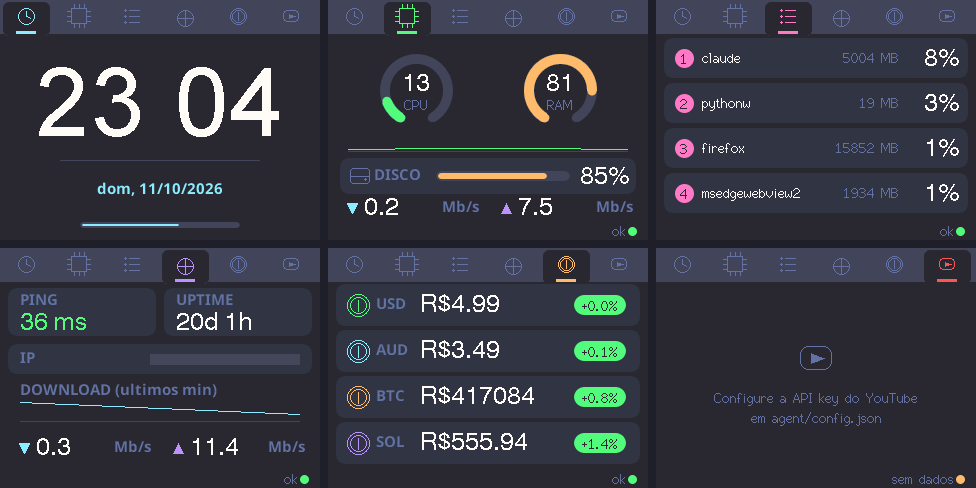
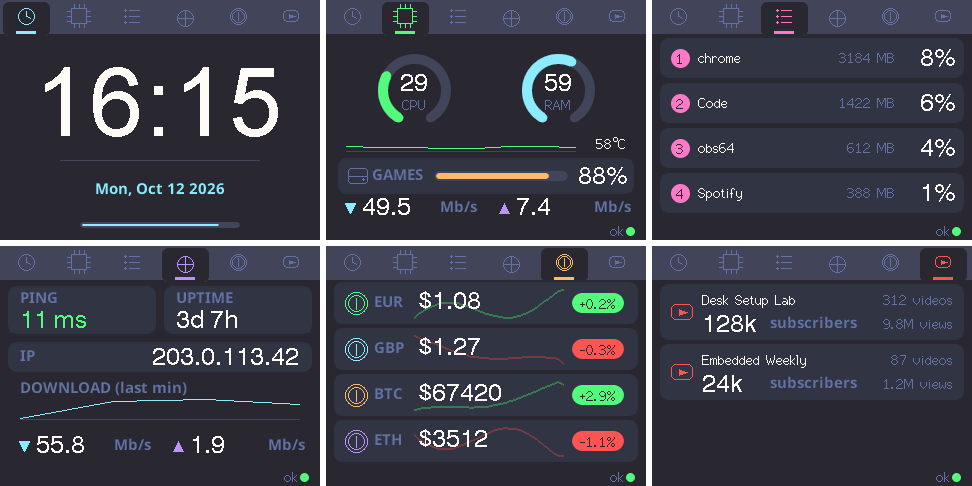
Atualiza ControlId.Net, CYD PC Dashboard e Job Tracker
- ControlId.Net 0.2.0-alpha.1: 85 endpoints cobertos, configurações
  tipadas, 189 testes e .NET 10
- CYD PC Dashboard v1.11: aba Serviços, interface web com OTA,
  notificações, alertas, temas, testes do agente e capa nova
- Job Tracker: raio-x mensal do mercado

diff --git a/src/content/projects/pt/cyd-pc-dashboard.md b/src/content/projects/pt/cyd-pc-dashboard.md
@@ -1,30 +1,38 @@
 ---
 title: CYD PC Dashboard
-summary: Painel touch de mesa no ESP32 "Cheap Yellow Display" com dados do PC, processos, rede, cotações e YouTube, alimentado por um agente Python na rede local.
-highlight: firmware ESP32 · instalador web · release automatizada
-tags: [ESP32, C++, PlatformIO, TFT_eSPI, Python, GitHub Actions]
+summary: Painel touch de mesa no ESP32 "Cheap Yellow Display" com dados do PC, processos, rede, cotações, serviços e notificações, alimentado por um agente na rede local.
+highlight: v1.11 · 16 releases · atualização OTA · instalador web
+tags: [ESP32, C++, PlatformIO, TFT_eSPI, Python, pytest, GitHub Actions]
 cover: ../../../assets/projects/cyd-pc-dashboard.png
 repo: https://github.com/DaviLuisSantos/cyd-pc-dashboard
 demo: https://daviluissantos.github.io/cyd-pc-dashboard/
 order: 5
 ---
 
-Um painel de 2,8" (uma placa de uns US$ 15) que fica ao lado do monitor e mostra, de relance, o que normalmente exigiria trocar de janela: relógio, CPU e RAM, processos, rede, cotações e estatísticas do YouTube. As capturas acima foram lidas direto do framebuffer do display.
+Um painel de 2,8" (uma placa de uns US$ 15) que fica ao lado do monitor e mostra, de relance, o que normalmente exigiria trocar de janela. As capturas acima foram lidas direto do framebuffer do display.
+
+## O que ele mostra
+
+- **Sete abas:** relógio, PC (CPU, RAM, temperatura, discos e rede), processos, rede, cotações (moedas, cripto, ações, ETFs e índices, com gráfico de 24h), YouTube e serviços (se hosts e sites escolhidos estão no ar, com a latência).
+- **Notificações do PC:** um comando ou um `curl` faz aparecer um card no painel, útil para avisar quando um build, um teste ou um download termina.
+- **Alertas:** limites de CPU, RAM e disco colorem os indicadores e fazem a aba do PC piscar de qualquer outra aba.
+- **Usa o que a placa tem:** o LED RGB pisca em alertas e notificações, e o sensor de luz ajusta o brilho conforme o ambiente. À noite, a tela escurece ou apaga.
 
 ## Firmware
 
-- **Seis abas plugáveis:** cada tela implementa uma interface com desenho estático, atualização incremental e toque. A navegação é por toque, com rotação automática opcional.
-- **Sem flicker:** cada valor dinâmico é desenhado num sprite fora da tela e enviado ao display numa única transação. O sprite é liberado logo depois para não disputar memória com o WiFi.
-- **Configuração sem código:** no primeiro boot o painel abre um portal WiFi onde se escolhe a rede, o IP do agente, o fuso e o idioma. Tudo fica salvo na flash da placa.
-- Tema Dracula com formas e fontes suavizadas, ícones 100% vetoriais e interface em português e inglês, trocável em tempo de execução.
+- **Interface web no próprio painel:** captura da tela ao vivo (dá para clicar e "tocar" nela), todas as configurações editáveis na hora e **atualização de firmware pelo WiFi (OTA)** com rollback automático.
+- **Configuração sem código:** o instalador web grava o firmware pelo navegador e já configura o WiFi. Também há um portal WiFi e descoberta automática do agente na rede.
+- **Sem flicker:** cada valor dinâmico é desenhado num sprite fora da tela e enviado ao display numa única transação.
+- Seis temas de cor (Dracula, Nord, Gruvbox, Catppuccin e outros), ícones 100% vetoriais e interface em português e inglês.
 
 ## Problemas que deram trabalho
 
-- **Leituras corrompidas no SPI:** display e touch usavam o mesmo periférico SPI do ESP32. As escritas funcionavam, mas as leituras do display voltavam erradas. A solução foi separar os dois em periféricos diferentes.
+- **Leituras corrompidas no SPI:** display e touch usavam o mesmo periférico SPI do ESP32. As escritas funcionavam, mas as leituras do display voltavam zeradas. A solução foi separar os dois em periféricos diferentes.
 - **Bits deslocados na leitura:** ler o framebuffer na mesma frequência da escrita deslocava cada byte em um bit. As leituras passaram a rodar a 6 MHz, e as escritas continuam a 55 MHz.
 
-## Agente no PC e distribuição
+## Agente e distribuição
 
 - **Agente em Python** (só psutil e biblioteca padrão): cada métrica é coletada por uma thread própria e servida a partir de cache. O ESP32 só faz HTTP simples na rede local, sem chaves de API nem TLS no microcontrolador.
-- **Instalador web:** o firmware é gravado direto pelo navegador, sem instalar nenhuma ferramenta.
+- O agente roda como executável no Windows, sem precisar de Python, e tem inicialização automática no Windows, no Linux e no macOS, além de token de autenticação opcional.
+- **68 testes** com pytest rodando no CI em Windows, Linux e macOS.
 - **Releases automáticas:** o GitHub Actions compila a cada tag, gera um binário único e publica a release e o instalador.

diff --git a/src/content/projects/en/cyd-pc-dashboard.md b/src/content/projects/en/cyd-pc-dashboard.md
@@ -1,30 +1,38 @@
 ---
 title: CYD PC Dashboard
-summary: Touch desk dashboard on the ESP32 "Cheap Yellow Display" with PC stats, processes, network, market quotes and YouTube stats, fed by a Python agent on the local network.
-highlight: ESP32 firmware · web installer · automated releases
-tags: [ESP32, C++, PlatformIO, TFT_eSPI, Python, GitHub Actions]
+summary: Touch desk dashboard on the ESP32 "Cheap Yellow Display" with PC stats, processes, network, market quotes, services and notifications, fed by an agent on the local network.
+highlight: v1.11 · 16 releases · OTA updates · web installer
+tags: [ESP32, C++, PlatformIO, TFT_eSPI, Python, pytest, GitHub Actions]
 cover: ../../../assets/projects/cyd-pc-dashboard.png
 repo: https://github.com/DaviLuisSantos/cyd-pc-dashboard
 demo: https://daviluissantos.github.io/cyd-pc-dashboard/
 order: 5
 ---
 
-A 2.8" panel (a board that costs about US$15) that sits next to the monitor and shows, at a glance, what would otherwise mean switching windows: clock, CPU and RAM, processes, network, market quotes and YouTube stats. The captures above were read straight from the display's framebuffer.
+A 2.8" panel (a board that costs about US$15) that sits next to the monitor and shows, at a glance, what would otherwise mean switching windows. The captures above were read straight from the display's framebuffer.
+
+## What it shows
+
+- **Seven tabs:** clock, PC (CPU, RAM, temperature, disks and network), processes, network, quotes (currencies, crypto, stocks, ETFs and indexes, with a 24h chart), YouTube and services (whether chosen hosts and sites are up, with latency).
+- **Notifications from the PC:** a command or a `curl` pops a card on the panel, handy for knowing when a build, a test run or a download finishes.
+- **Alerts:** CPU, RAM and disk thresholds color the gauges and make the PC tab blink from any other tab.
+- **Uses what the board has:** the RGB LED blinks on alerts and notifications, and the light sensor drives the brightness from the room light. At night the screen dims or turns off.
 
 ## Firmware
 
-- **Six pluggable tabs:** each screen implements an interface for static drawing, incremental updates and touch. Navigation is by touch, with optional auto-rotation.
-- **Flicker-free:** each dynamic value is drawn into an off-screen sprite and pushed to the display in a single transaction. The sprite is freed right after so it doesn't compete with WiFi for memory.
-- **Zero-code setup:** on first boot the panel opens a WiFi portal to pick the network, agent IP, timezone and language. Everything is saved to the board's flash.
-- Dracula theme with anti-aliased shapes and fonts, 100% vector icons, and a UI in English and Portuguese, switchable at runtime.
+- **Web interface on the panel itself:** a live screenshot you can click to "tap", every setting editable on the spot, and **firmware updates over WiFi (OTA)** with automatic rollback.
+- **Zero-code setup:** the web installer flashes the firmware from the browser and sets up WiFi right away. There is also a WiFi portal and automatic discovery of the agent on the network.
+- **Flicker-free:** each dynamic value is drawn into an off-screen sprite and pushed to the display in a single transaction.
+- Six color themes (Dracula, Nord, Gruvbox, Catppuccin and more), 100% vector icons and a UI in English and Portuguese.
 
 ## Problems that took real work
 
-- **Corrupted SPI reads:** the display and the touch controller shared the same ESP32 SPI peripheral. Writes worked, but display reads came back wrong. The fix was moving them to separate peripherals.
+- **Corrupted SPI reads:** the display and the touch controller shared the same ESP32 SPI peripheral. Writes worked, but display reads came back as zeros. The fix was moving them to separate peripherals.
 - **Shifted bits on readback:** reading the framebuffer at the write clock shifted every byte by one bit. Reads now run at 6 MHz, while writes stay at 55 MHz.
 
-## PC agent and distribution
+## Agent and distribution
 
 - **Python agent** (psutil and the standard library only): each metric is collected by its own thread and served from cache. The ESP32 only speaks plain HTTP on the LAN, with no API keys or TLS on the microcontroller.
-- **Web installer:** the firmware is flashed straight from the browser, with no toolchain to install.
+- The agent runs as a Windows executable with no Python required, starts automatically on Windows, Linux and macOS, and supports an optional authentication token.
+- **68 tests** with pytest running in CI on Windows, Linux and macOS.
 - **Automated releases:** GitHub Actions builds on every tag, produces a single merged binary and publishes the release and the installer.

diff --git a/src/content/projects/pt/controlid-net.md b/src/content/projects/pt/controlid-net.md
@@ -1,8 +1,8 @@
 ---
 title: ControlId.Net
 summary: Biblioteca .NET open source (não oficial) para integrar equipamentos de controle de acesso e relógios de ponto REP da Control iD, publicada no NuGet.
-highlight: publicado no NuGet · 144 testes
-tags: [.NET 8, .NET Standard 2.0, ASP.NET Core, xUnit, GitHub Actions]
+highlight: publicado no NuGet · 85 endpoints cobertos · 189 testes
+tags: [.NET 8, .NET 10, .NET Standard 2.0, ASP.NET Core, xUnit, GitHub Actions]
 repo: https://github.com/DaviLuisSantos/ControlId.Net
 links:
   - label: NuGet
@@ -12,10 +12,12 @@ order: 2
 
 Cliente .NET para a linha de acesso da Control iD (iDAccess, iDFlex, iDFace, iDBox, iDUHF) e para os relógios de ponto REP iDClass. Gera para `net8.0` e `netstandard2.0`, então também funciona em projetos .NET Framework 4.6.1+.
 
-São três pacotes: `ControlId.Net`, `ControlId.Net.DependencyInjection` e `ControlId.Net.AspNetCore`.
+São três pacotes: `ControlId.Net`, `ControlId.Net.DependencyInjection` e `ControlId.Net.AspNetCore`. A versão atual é a 0.2.0-alpha.1.
 
 ## Destaques
 
+- **Cobertura completa da API documentada:** os 85 endpoints públicos da linha de acesso têm método na biblioteca, e um teste chama cada um e confere a rota e o método HTTP.
+- **Tudo tipado:** CRUD genérico para os objetos da API, 34 seções de configuração (cerca de 245 parâmetros), cadastro facial, mídia do iDFace (vídeo de propaganda, mensagens sonoras, interfonia SIP, RTSP), rede, VPN e licenças.
 - **Sessão gerenciada:** login sob demanda, sessão em cache e um novo login automático ao receber 401. Um `SemaphoreSlim` impede logins simultâneos.
 - **Parser de AFD:** lê os arquivos das Portarias 671/2021 e 1510/2009 em streaming. Detecta o encoding, valida o CRC-16 e trata linhas corrompidas sem interromper a leitura.
 - **Modo Push** para equipamentos atrás de NAT: fila de comandos por equipamento, envio em lote e cancelamento.
@@ -24,7 +26,7 @@ São três pacotes: `ControlId.Net`, `ControlId.Net.DependencyInjection` e `Cont
 
 ## Qualidade
 
-- 144 testes, rodando em .NET 8 (Linux) e em .NET Framework 4.8 (Windows).
+- 189 testes, rodando em .NET 8 e .NET 10 (Linux) e em .NET Framework 4.8 (Windows).
 - Publicação no NuGet via Trusted Publishing (OIDC): não há chave guardada no repositório, e o pacote só sai se todos os testes passarem.
 
 > Projeto independente, sem vínculo com a Control iD. Os nomes citados são marcas da Control iD.

diff --git a/src/content/projects/en/controlid-net.md b/src/content/projects/en/controlid-net.md
@@ -1,8 +1,8 @@
 ---
 title: ControlId.Net
 summary: Open source (unofficial) .NET library for integrating Control iD access-control devices and REP time clocks, published on NuGet.
-highlight: published on NuGet · 144 tests
-tags: [.NET 8, .NET Standard 2.0, ASP.NET Core, xUnit, GitHub Actions]
+highlight: published on NuGet · 85 endpoints covered · 189 tests
+tags: [.NET 8, .NET 10, .NET Standard 2.0, ASP.NET Core, xUnit, GitHub Actions]
 repo: https://github.com/DaviLuisSantos/ControlId.Net
 links:
   - label: NuGet
@@ -12,10 +12,12 @@ order: 2
 
 A .NET client for Control iD access-control devices (iDAccess, iDFlex, iDFace, iDBox, iDUHF) and iDClass REP time clocks. Targets `net8.0` and `netstandard2.0`, so it also works in .NET Framework 4.6.1+ projects.
 
-Three packages: `ControlId.Net`, `ControlId.Net.DependencyInjection` and `ControlId.Net.AspNetCore`.
+Three packages: `ControlId.Net`, `ControlId.Net.DependencyInjection` and `ControlId.Net.AspNetCore`. The current version is 0.2.0-alpha.1.
 
 ## Highlights
 
+- **Full coverage of the documented API:** all 85 public endpoints of the access line have a method in the library, and a test calls each one and checks the route and HTTP method.
+- **Fully typed:** generic CRUD for the API objects, 34 settings sections (about 245 parameters), facial enrollment, iDFace media (advertising video, audio messages, SIP intercom, RTSP), networking, VPN and licenses.
 - **Managed session:** on-demand login, cached session and an automatic re-login on 401. A `SemaphoreSlim` prevents concurrent logins.
 - **AFD parser:** streams Brazilian time-clock files (Portaria 671/2021 and 1510/2009). Detects encoding, validates CRC-16 and handles corrupted lines without aborting the read.
 - **Push mode** for devices behind NAT: per-device command queue, batched delivery and cancellation.
@@ -24,7 +26,7 @@ Three packages: `ControlId.Net`, `ControlId.Net.DependencyInjection` and `Contro
 
 ## Quality
 
-- 144 tests, running on .NET 8 (Linux) and .NET Framework 4.8 (Windows).
+- 189 tests, running on .NET 8 and .NET 10 (Linux) and .NET Framework 4.8 (Windows).
 - Published to NuGet with Trusted Publishing (OIDC): no key is stored in the repository, and a package only ships if every test passes.
 
 > Independent project, not affiliated with Control iD. The names mentioned are Control iD trademarks.

diff --git a/src/content/projects/pt/job-tracker.md b/src/content/projects/pt/job-tracker.md
@@ -21,6 +21,11 @@ Ferramenta pessoal para acompanhar o mercado de vagas na Austrália sem precisar
 - **Entende negação:** ignora um termo quando ele vem logo depois de "no", "not", "without" etc., e usa regex que funcionam com termos como C# e .NET.
 - **Revisão em duas etapas:** vagas com pontuação alta são reavaliadas com a descrição completa, e uma etapa opcional com o Gemini classifica requisitos que as regras não pegam.
 
+## Raio-X do mercado
+
+- Uma coleta diária registra, por área do Seek, quantas vagas estão abertas e quantas mencionam patrocínio de visto ou exigem cidadania, com a data em que cada vaga apareceu e sumiu.
+- No fim do mês, um relatório em Markdown consolida essas contagens e mostra como o mercado se moveu.
+
 ## Painel
 
 - Painel em Flask com status e anotações por vaga, explicação de cada pontuação, exportação para Excel e coletas em background com o log transmitido ao vivo.

diff --git a/src/content/projects/en/job-tracker.md b/src/content/projects/en/job-tracker.md
@@ -21,6 +21,11 @@ A personal tool to follow the Australian job market without running the same sea
 - **Negation-aware:** ignores a term when it comes right after "no", "not", "without" and similar, using regexes that work with terms like C# and .NET.
 - **Two-stage review:** high-scoring jobs are re-scored with the full description, and an optional Gemini step classifies requirements the rules miss.
 
+## Market snapshot
+
+- A daily run records, for each Seek job area, how many listings are open and how many mention visa sponsorship or require citizenship, with the dates each listing appeared and disappeared.
+- At the end of the month, a Markdown report aggregates those counts and shows how the market moved.
+
 ## Dashboard
 
 - A Flask dashboard with per-job status and notes, an explanation of each score, Excel export and background runs with a live log.
